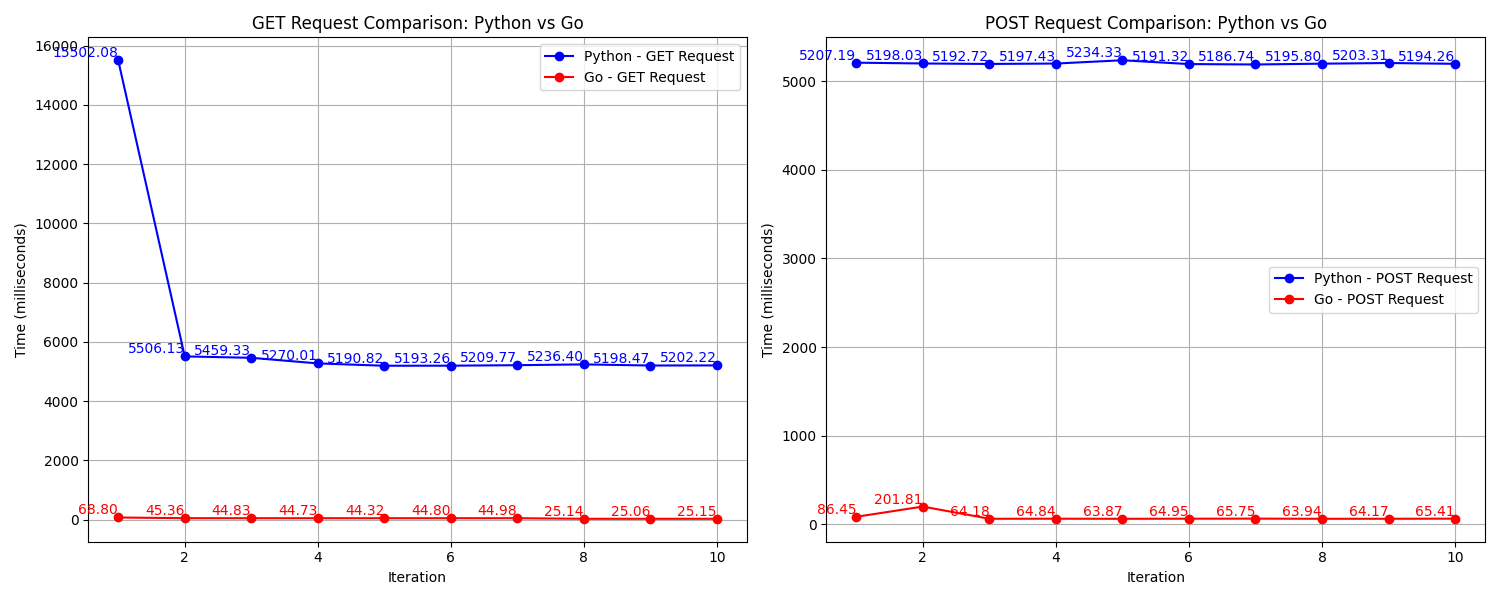
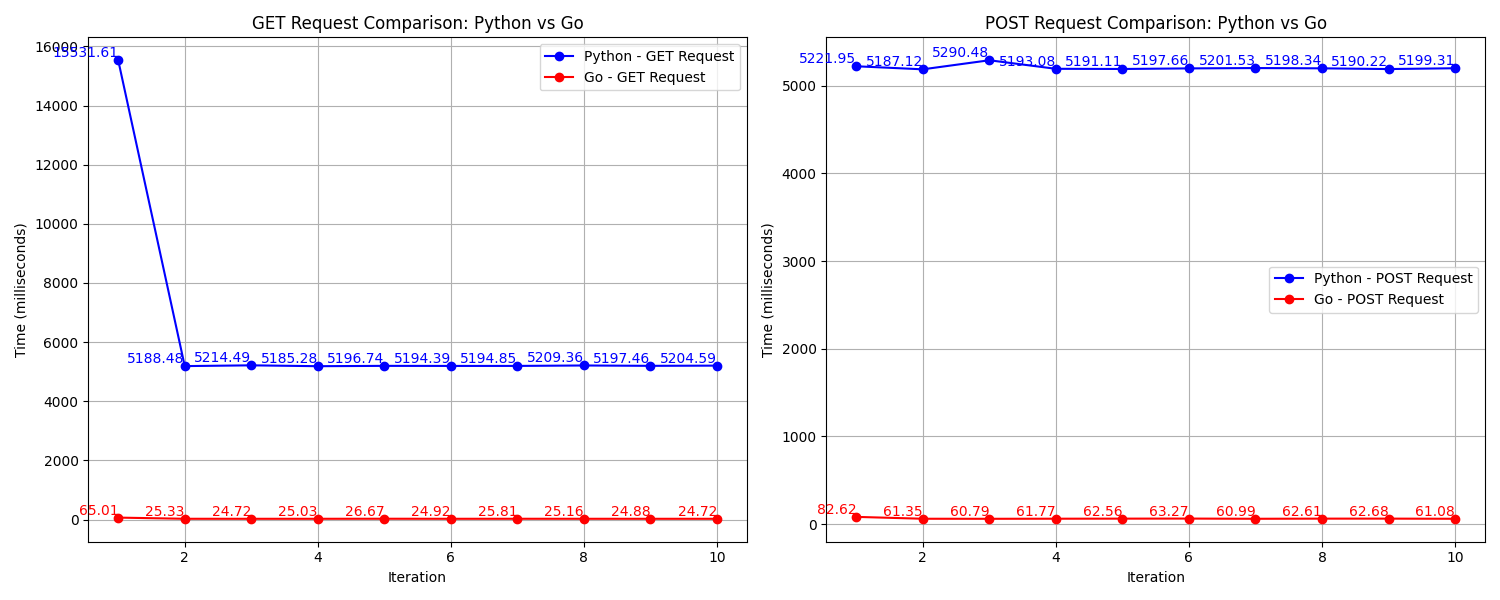
Read Write test

diff --git a/bench.py b/bench.py
@@ -23,20 +23,25 @@ def benchmark_post_request(url, iteration, data, label):
     # print(f"{iteration} | POST | {label} | {elapsed_time:.4f} | {response.status_code}")
     return elapsed_time
 
-def run_get_benchmark(url, iterations, label):
-    get_times = [benchmark_get_request(url, i, label) for i in range(1, iterations + 1)]
-    return get_times
+def run_benchmark(url, iterations, label):
+    get_times = []
+    post_times = []
 
-def run_post_benchmark(url, iterations, label):
-    post_times = [benchmark_post_request(url, i, {"name": f"Sample Item {label} {i}"}, label) for i in range(1, iterations + 1)]
-    return post_times
+    for i in range(1, iterations + 1):
+        get_time = benchmark_get_request(url, i, label)
+        post_time = benchmark_post_request(url, i, {"name": f"Sample Item {label} {i}"}, label)
+        
+        get_times.append(get_time)
+        post_times.append(post_time)
+
+    return get_times, post_times
 
 def plot_comparison(labels, get_times_python, get_times_go, post_times_python, post_times_go):
     iterations = list(range(1, len(get_times_python) + 1))
-    get_times_python_ms = [time * 1000 for time in get_times_python]  # Convert to milliseconds
-    get_times_go_ms = [time * 1000 for time in get_times_go]  # Convert to milliseconds
-    post_times_python_ms = [time * 1000 for time in post_times_python]  # Convert to milliseconds
-    post_times_go_ms = [time * 1000 for time in post_times_go]  # Convert to milliseconds
+    get_times_python_ms = [time * 1000 for time in get_times_python]  
+    get_times_go_ms = [time * 1000 for time in get_times_go]  
+    post_times_python_ms = [time * 1000 for time in post_times_python]  
+    post_times_go_ms = [time * 1000 for time in post_times_go]  
 
     plt.figure(figsize=(15, 6))
 
@@ -86,11 +91,8 @@ if __name__ == "__main__":
     url_go = "http://localhost:8080/items"
     labels = ["Python", "Go"]
 
-    get_times_python = run_get_benchmark(url_py, iterations,"Python")
-    get_times_go = run_get_benchmark(url_go, iterations,"Go")
-
-    post_times_python = run_post_benchmark(url_py, iterations, "Python")
-    post_times_go = run_post_benchmark(url_go, iterations, "Go")
+    get_times_python, post_times_python = run_benchmark(url_py, iterations, "Python")
+    get_times_go, post_times_go = run_benchmark(url_go, iterations, "Go")
 
     plot_comparison(labels, get_times_python,get_times_go,post_times_python,post_times_go)
     save_to_csv('benchmark_results.csv', labels, get_times_python, get_times_go, post_times_python, post_times_go)

diff --git a/Readme.md b/Readme.md
@@ -1,7 +1,10 @@
 # Benchmarking  Server Performance Python's Django vs. Go
 
 This project benchmarks the performance of Python's Django and DjangoRestFramework and Go servers for GET and POST requests using the Python `requests` library and measures the response times for each iteration.
-Both servers use same production database server running Postgres. Each GET and POST Request queries db synchronously. 
+
+- Both servers use same production database server running Postgres.
+- Each GET and POST Request queries db synchronously. 
+- First Get and then Post Query request is made to test read write operations.
 
 ## Setup
 
